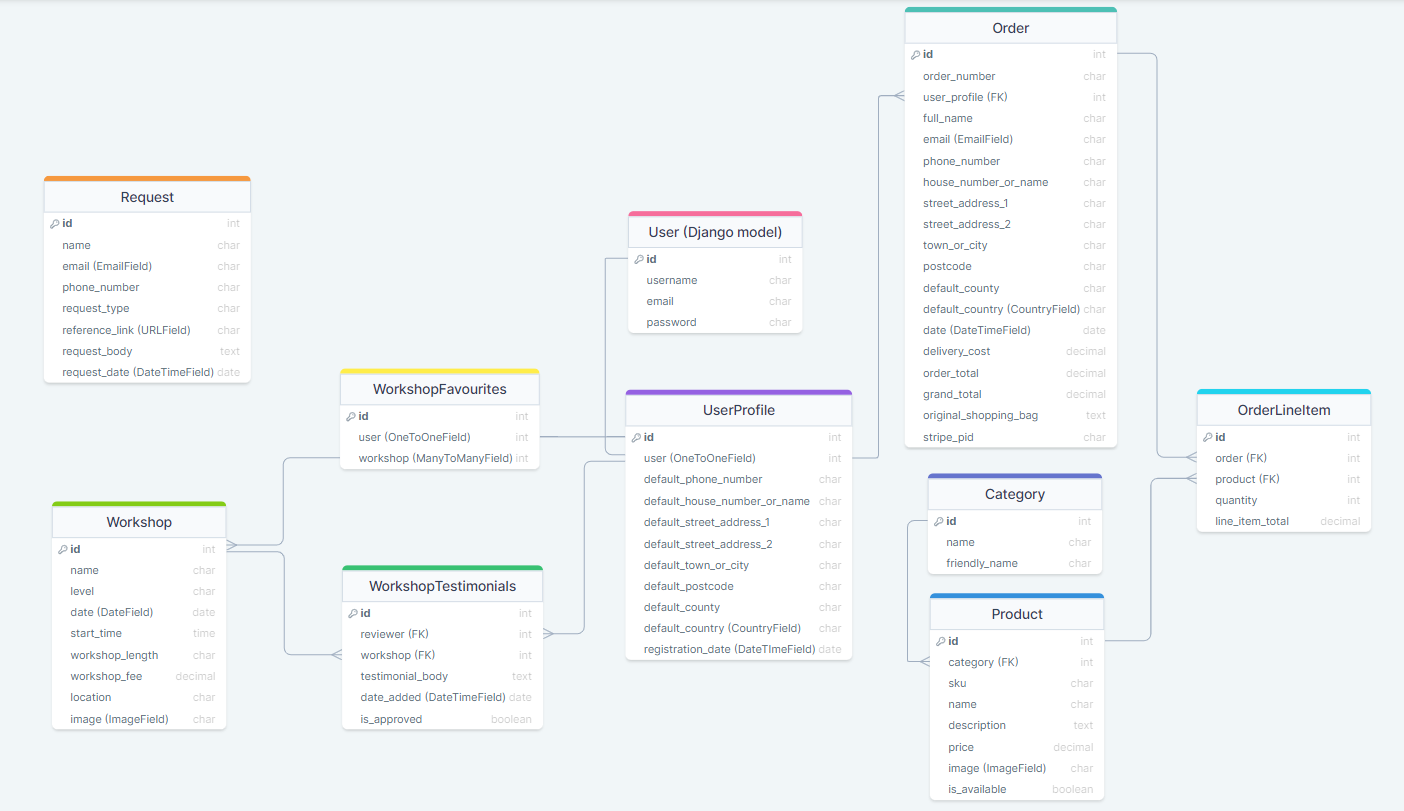
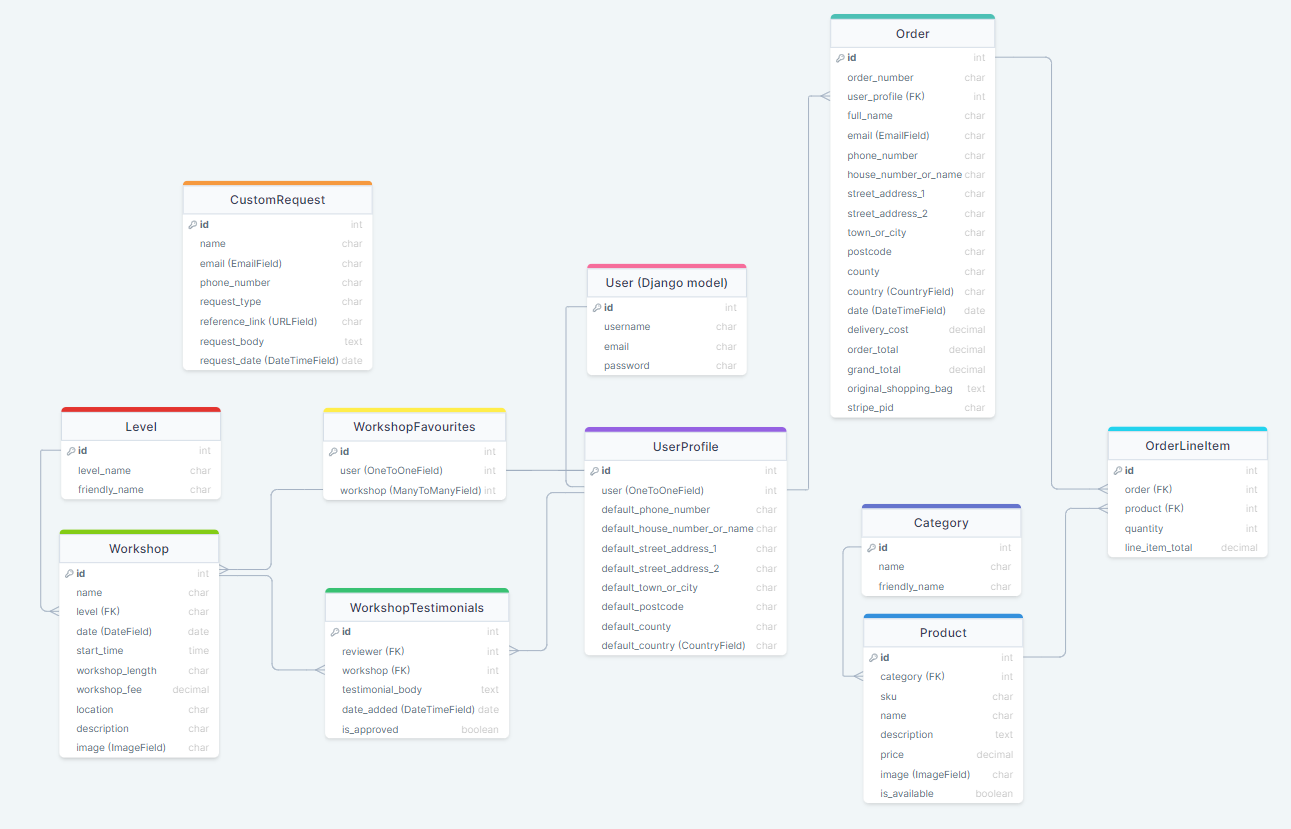
Update database schema in README

diff --git a/workshops/templates/workshops/workshops.html b/workshops/templates/workshops/workshops.html
@@ -31,7 +31,7 @@
                         <p class="mb-1">How about making your own unique Christmas wreath that will last many years?</p>
                         <p class="mb-1">Join us at one of our workshops to master a new skill or simply hang out with
                             like-minded people.</p>
-                        <p class="mb-1">Browse the list of all workshops and <span><a href="#"
+                        <p class="mb-1">Browse the list of all workshops and <span><a href="{% url 'send_query' %}"
                             aria-label="Contact us via a contact form."><span class="contact-link text-highlight"> get in touch with us</span></a> if you want us to save
                             a spot for you.</p>
                         <p class="mb-1 mt-4">We'd love to meet you!</p>

diff --git a/static/css/base.css b/static/css/base.css
@@ -400,7 +400,7 @@ input[name='q']::placeholder {
 
 /*------------------------------------ Media queries*/
 
-/*on screens 425px or smaller, reduce the font size to keep logo and links on the same line, add margin to logo to create space between elements*/
+/*on screens 425px or smaller, reduce the font size, padding and margins*/
 
 @media screen and (max-width: 425px) {
     .logo {
